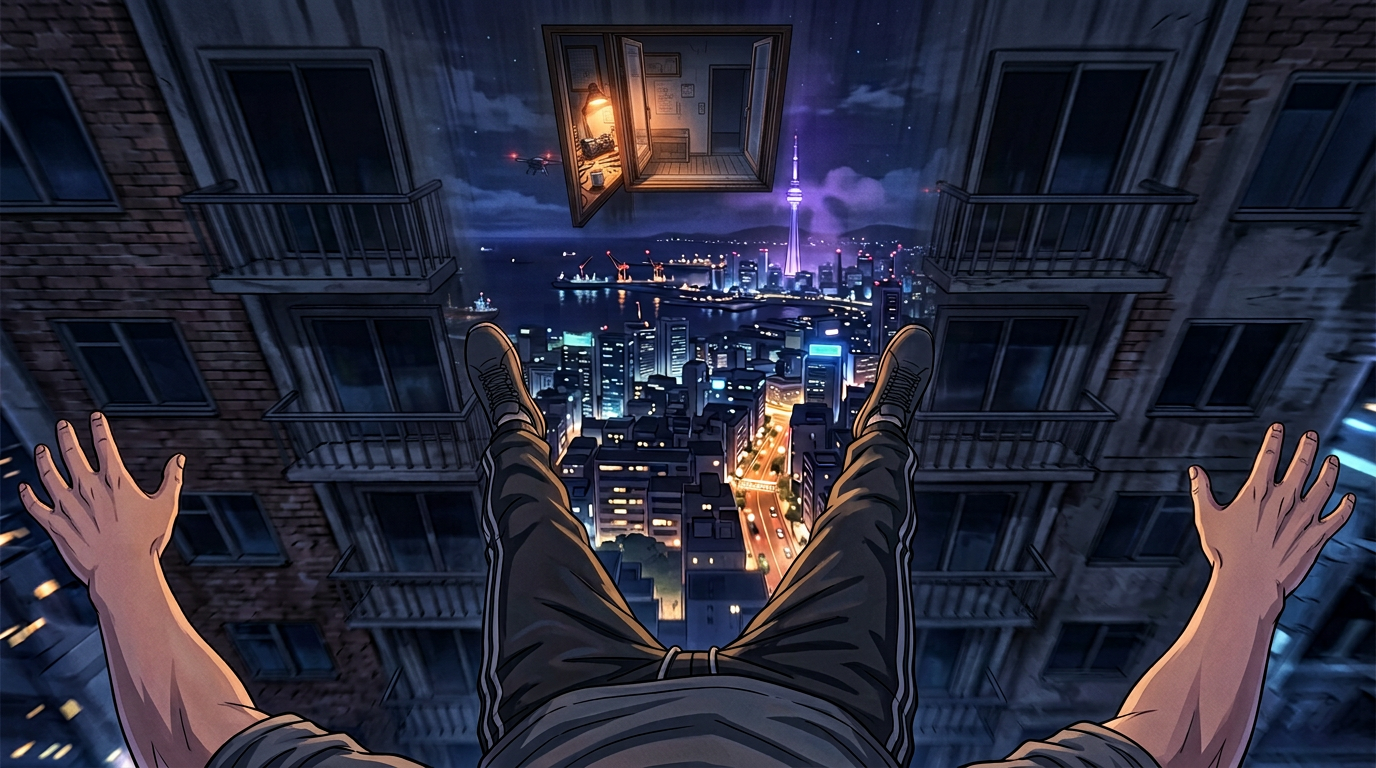
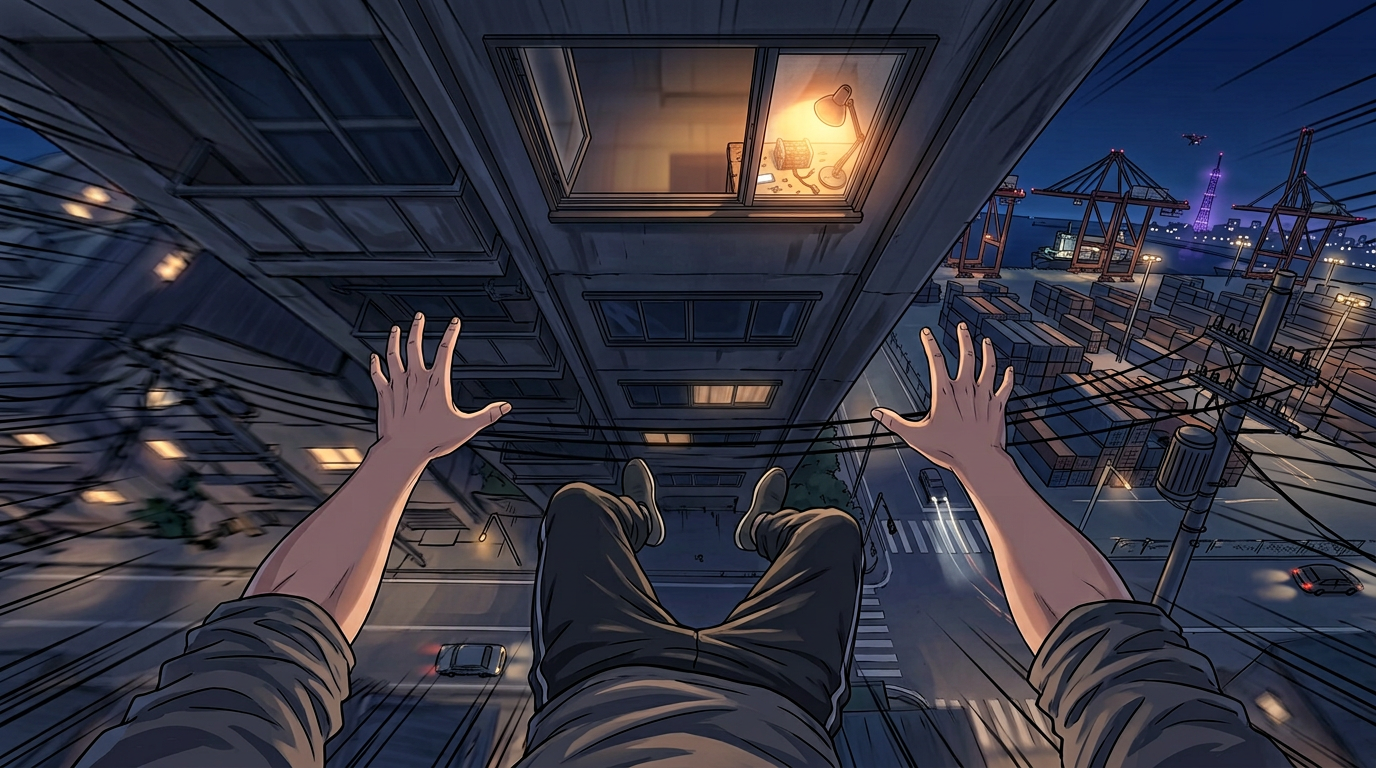
feat: redo window-jump frames — Japan port district, fixed POV rules
Per feedback: all prior frames came out poorly (especially #2). Redo:
- cg_fall1: no pants/lower body — only forearms in t-shirt sleeves on
  the window frame; room background at the edges; setting explicitly
  Japan, night port district (gantry cranes, containers, port lights)
- cg_fall2: regenerated as an edit of the new fall1 — falling past the
  facade, Japanese port below, same palette
- cg_fall3: kept as-is (came out acceptable)
- cg_fall4: now a THIRD-PERSON shot — the boy in t-shirt and track
  pants lying on the asphalt of a Japanese street near the port, low
  side angle, facade with the tiny open window above

Prompts updated in cg/prompts_procrastination.md; runtime WebP
re-converted (fall3 untouched). 65/65 tests.

diff --git a/cg/prompts_procrastination.md b/cg/prompts_procrastination.md
@@ -78,29 +78,34 @@ Vertigo composition, deep blue.
 ## Последовательность падения (прыжок из окна) — 4 кадра-цепочка
 
 Каждый следующий кадр — редактирование предыдущего (передаётся генератору),
-чтобы фон и персонаж совпадали.
+чтобы фон и персонаж совпадали. Место действия — ЯПОНИЯ, ночной портовый
+район: портальные краны, контейнеры, огни порта, столбы с проводами.
 
 ### cg_fall1 — комната у открытого окна (оригинальный фон)
 First-person POV standing at a wide-open ninth-floor apartment window at night.
-Own hands in dark-grey t-shirt sleeves grip the window frame at the bottom
-corners, hint of dark track pants. The room is visible at the edges: workbench
-with disassembled mecha accumulator, scattered screws, screwdriver, cold tea,
-glowing smartphone, desk lamp. Beyond: night city far below — dark streets,
-port lights, tower with violet haze, drones with red lights. Deep blue palette.
+Only the forearms and hands are visible at the bottom corners, gripping the
+window frame, dark-grey t-shirt sleeves — NO pants, no lower body. Room at the
+edges: workbench with disassembled mecha accumulator, screws, screwdriver, cold
+green tea, glowing smartphone, warm desk lamp. Beyond the window: Japanese port
+district at night — gantry cranes, container stacks, port lights, tower with
+violet haze, drones. Deep blue palette.
 
 ### cg_fall2 — сразу после прыжка
 Edit of cg_fall1: just jumped, falling past the building facade. First-person
-POV down along own body — arms in the same t-shirt sleeves spread, legs in the
-same track pants — the open window and lit room receding above, windows and
-balconies rushing past, night street below getting closer. Same palette.
+POV down along own body — arms in the same t-shirt sleeves spread wide, legs in
+dark track pants kicking — open window and warm room receding above, facades and
+balconies rushing past, the Japanese port district below. Same palette.
 
 ### cg_fall3 — ближе к земле
 Edit of cg_fall2: much closer to the ground, wind-blown sleeves, facade filling
-one side of the frame, street with a parked truck and sidewalk rushing up, the
-open window tiny and high above with its warm lamp glow. Same palette.
+one side, street with a parked truck and sidewalk rushing up, the open window
+tiny and high above with its warm lamp glow. Same palette. (Kept as-is.)
 
-### cg_fall4 — после приземления
-Edit of cg_fall3: lying on the ground looking up at the night sky and the dark
-facade with the tiny open window high above, own arm in the same t-shirt sleeve
-resting on asphalt, parked truck nearby, street lights, drones. Quiet, final,
-ominous. Same palette.
+### cg_fall4 — после приземления, ОТ ТРЕТЬЕГО ЛИЦА
+Edit of cg_fall3, now a THIRD-PERSON shot: a teenage boy lies on the asphalt of
+a Japanese night street near the port, beside a parked delivery truck, low side
+angle. He wears the same dark-grey t-shirt and dark track pants, one arm
+outstretched, face hidden by dark hair. Behind him the dark apartment facade
+with the tiny open window high above. Street lamps, utility poles, gantry
+cranes and container stacks in the distance, drones, wet asphalt reflecting
+lights. Quiet, final, ominous. Same palette.
